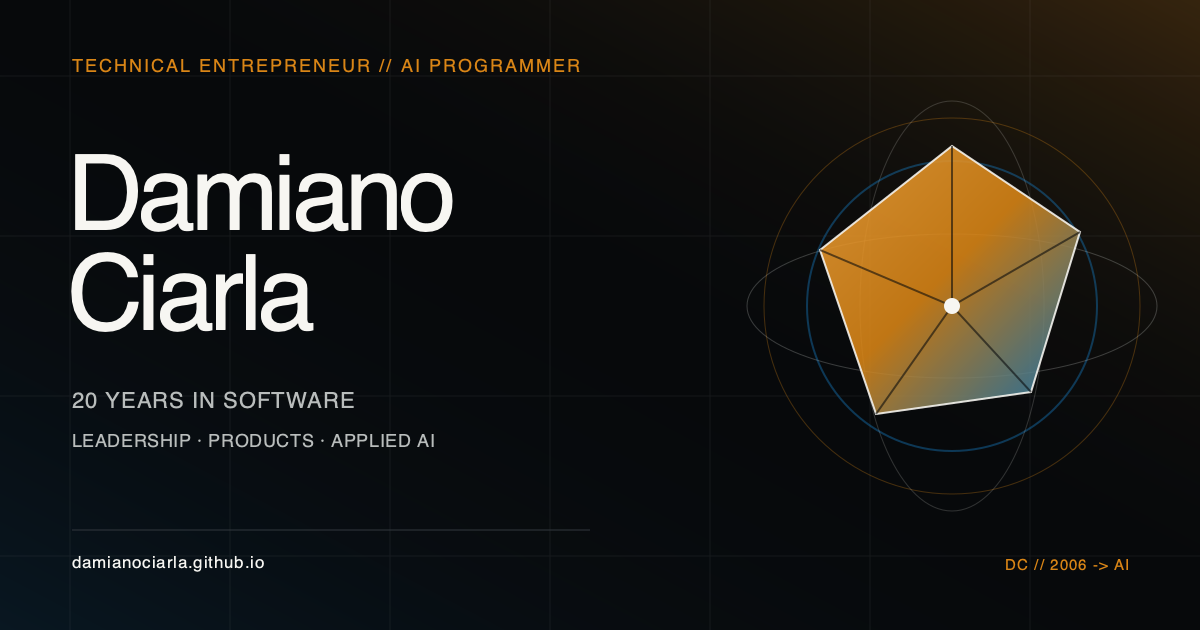
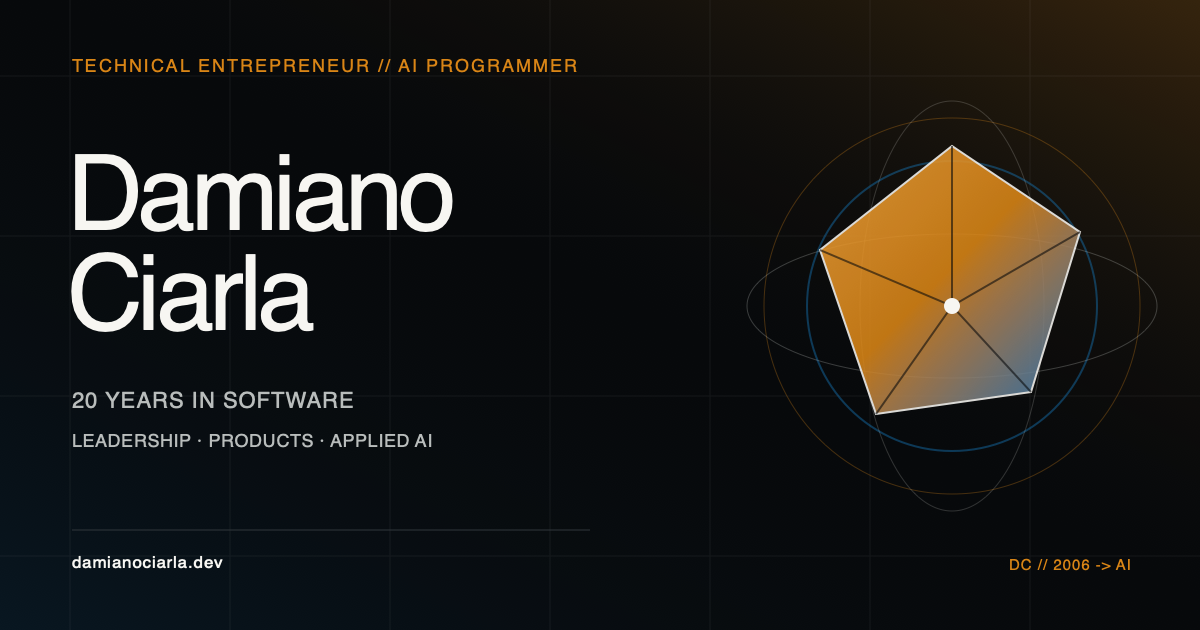
feat: deploy personal site on AWS

diff --git a/index.html b/index.html
@@ -21,14 +21,14 @@
       property="og:description"
       content="Vent'anni nel software. Ho trasformato codice in prodotti, team e aziende. Oggi costruisco con l'AI, ancora con le mani nel codice."
     />
-    <meta property="og:url" content="https://damianociarla.github.io/" />
+    <meta property="og:url" content="https://damianociarla.dev/" />
     <meta property="og:locale" content="it_IT" />
     <meta property="og:locale:alternate" content="en_US" />
-    <meta property="og:image" content="https://damianociarla.github.io/og/damiano-ciarla-og-v1.png" />
-    <meta property="og:image:url" content="https://damianociarla.github.io/og/damiano-ciarla-og-v1.png" />
+    <meta property="og:image" content="https://damianociarla.dev/og/damiano-ciarla-og-v1.png" />
+    <meta property="og:image:url" content="https://damianociarla.dev/og/damiano-ciarla-og-v1.png" />
     <meta
       property="og:image:secure_url"
-      content="https://damianociarla.github.io/og/damiano-ciarla-og-v1.png"
+      content="https://damianociarla.dev/og/damiano-ciarla-og-v1.png"
     />
     <meta property="og:image:type" content="image/png" />
     <meta property="og:image:width" content="1200" />
@@ -39,20 +39,20 @@
     />
 
     <meta name="twitter:card" content="summary_large_image" />
-    <meta name="twitter:url" content="https://damianociarla.github.io/" />
-    <meta name="twitter:domain" content="damianociarla.github.io" />
+    <meta name="twitter:url" content="https://damianociarla.dev/" />
+    <meta name="twitter:domain" content="damianociarla.dev" />
     <meta name="twitter:title" content="Damiano Ciarla | Technical Entrepreneur &amp; AI Programmer" />
     <meta
       name="twitter:description"
       content="Vent'anni nel software tra leadership tecnica, prodotti, startup e AI applicata."
     />
-    <meta name="twitter:image" content="https://damianociarla.github.io/og/damiano-ciarla-og-v1.png" />
+    <meta name="twitter:image" content="https://damianociarla.dev/og/damiano-ciarla-og-v1.png" />
     <meta
       name="twitter:image:alt"
       content="Damiano Ciarla, Technical Entrepreneur e AI Programmer."
     />
 
-    <link rel="canonical" href="https://damianociarla.github.io/" />
+    <link rel="canonical" href="https://damianociarla.dev/" />
     <link rel="icon" href="/icons/favicon.svg" type="image/svg+xml" />
     <link rel="apple-touch-icon" href="/icons/apple-touch-icon.png" />
     <link rel="manifest" href="/site.webmanifest" />
@@ -63,9 +63,9 @@
         "@graph": [
           {
             "@type": "Person",
-            "@id": "https://damianociarla.github.io/#person",
+            "@id": "https://damianociarla.dev/#person",
             "name": "Damiano Ciarla",
-            "url": "https://damianociarla.github.io/",
+            "url": "https://damianociarla.dev/",
             "email": "mailto:damiano.ciarla@gmail.com",
             "jobTitle": "Technical Entrepreneur and AI Programmer",
             "description": "Software professional with twenty years of experience across technical leadership, architecture, products, entrepreneurship and applied AI.",
@@ -91,11 +91,11 @@
           },
           {
             "@type": "WebSite",
-            "@id": "https://damianociarla.github.io/#website",
-            "url": "https://damianociarla.github.io/",
+            "@id": "https://damianociarla.dev/#website",
+            "url": "https://damianociarla.dev/",
             "name": "Damiano Ciarla",
             "inLanguage": ["it", "en"],
-            "author": { "@id": "https://damianociarla.github.io/#person" }
+            "author": { "@id": "https://damianociarla.dev/#person" }
           }
         ]
       }
